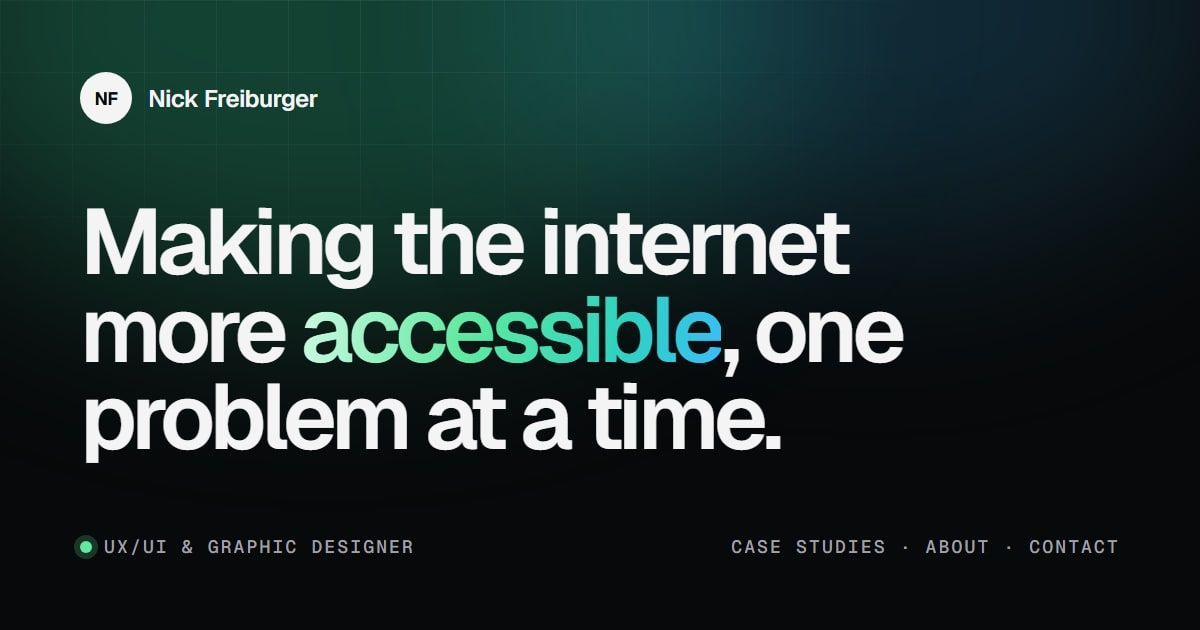
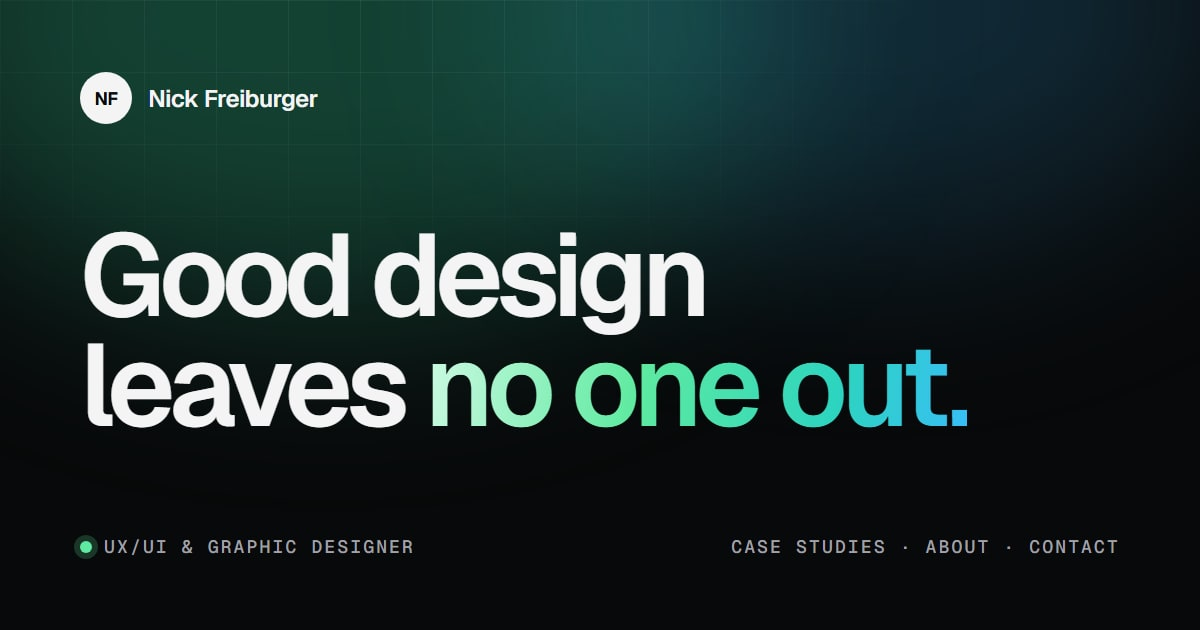
New homepage headline: "Good design leaves no one out."
Rewrites the hero headline and intro, and regenerates the social
preview image to match.

Changed region(s): [[0.0617, 0.3317, 0.8017, 0.754]]

diff --git a/index.html b/index.html
@@ -44,9 +44,9 @@
   <div class="aurora" aria-hidden="true"><div class="grid-lines"></div></div>
   <section class="wrap hero" aria-labelledby="hero-title">
     <p class="badge reveal"><span class="dot" aria-hidden="true"></span>UX/UI &amp; Graphic Designer · Michigan</p>
-    <h1 id="hero-title" class="reveal">Making the internet more <span class="grad">accessible</span>, one problem at a time.</h1>
+    <h1 id="hero-title" class="reveal">Good design<br> leaves <span class="grad nowrap">no one out.</span></h1>
     <div class="hero-foot reveal">
-      <p class="hero-lede">I’m Nick Freiburger, a designer who turns user research into clear, usable products. I studied Experience Architecture at Michigan State University, earned the Google UX Design Certificate, and have designed for a VR streaming platform, a healthcare company and a national nonprofit.</p>
+      <p class="hero-lede">I’m Nick Freiburger. I research, design and test digital products for the people other products forget: from finding a celiac-safe meal to making sense of a healthcare plan.</p>
       <div class="hero-actions">
         <a class="btn btn-primary" href="#work">View case studies <span class="arrow"><svg width="18" height="18" viewBox="0 0 24 24" fill="none" stroke="currentColor" stroke-width="1.8" stroke-linecap="round" stroke-linejoin="round" aria-hidden="true"><path d="M5 12h14M13 6l6 6-6 6"/></svg></span></a>
         <a class="btn" href="about/">About me</a>

diff --git a/assets/css/style.css b/assets/css/style.css
@@ -176,6 +176,9 @@ p {
   color: var(--ink-3);
 }
 
+.nowrap {
+  white-space: nowrap;
+}
 .grad {
   background: var(--accent-grad);
   -webkit-background-clip: text;
@@ -473,7 +476,7 @@ p {
   }
 }
 .hero h1 {
-  max-width: 15ch;
+  max-width: 18ch;
   font-size: clamp(48px, 8.6vw, 124px);
   font-weight: 600;
   line-height: 0.94;
